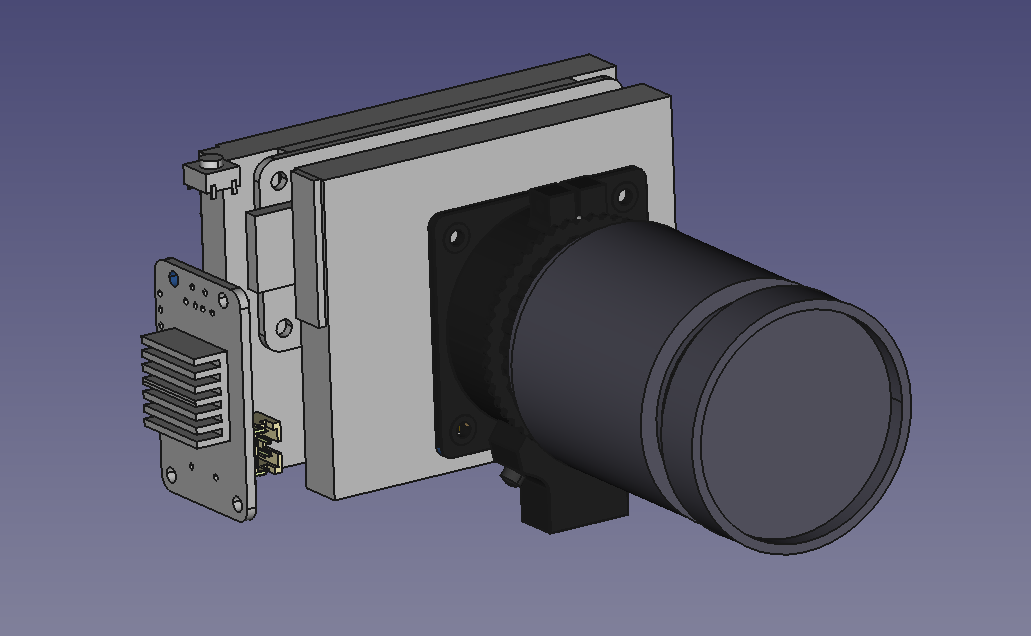
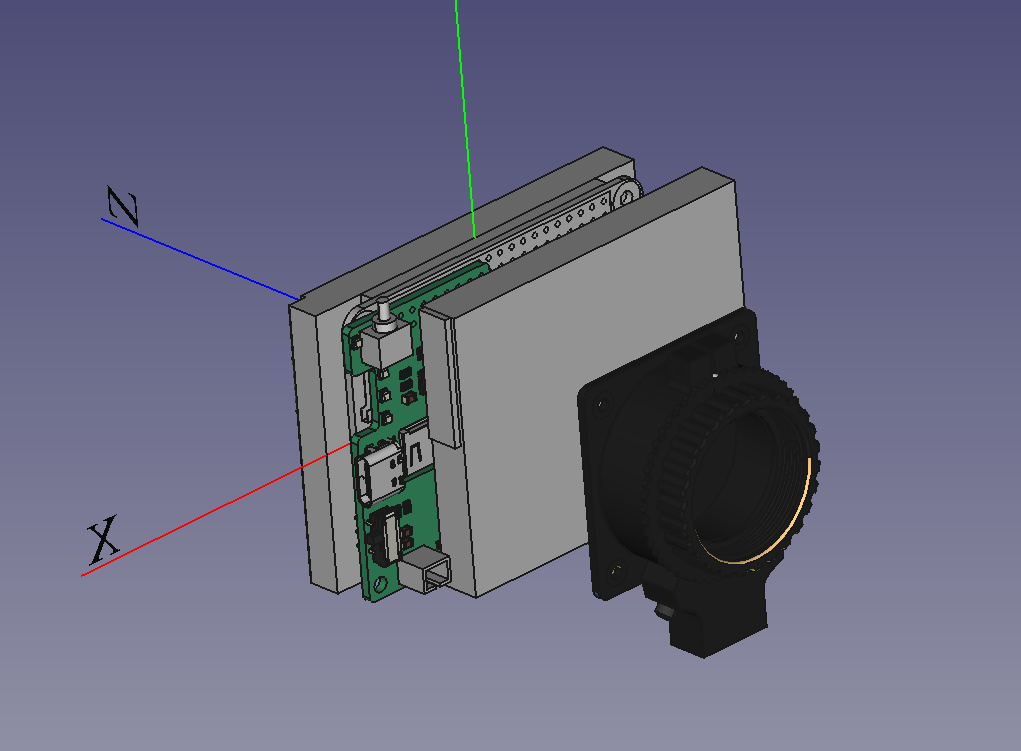
updated README

diff --git a/README.md b/README.md
@@ -1,13 +1,13 @@
 tinycam
 ---
 
-![tinycam_v1 CAD](media/tinycam_v1.png)
+![tinycam_v2 CAD](media/tinycam_v2.png)
 
-This is a simple point-and-shoot camera, mostly an excuse to play with the new [Raspberry Pi High Quality camera](https://www.raspberrypi.org/products/raspberry-pi-high-quality-camera/) and maybe a simple PCB for battery management.
+This is a simple point-and-shoot camera, mostly an excuse to play with the new [Raspberry Pi High Quality camera](https://www.raspberrypi.org/products/raspberry-pi-high-quality-camera/) and ~~maybe~~ **also** a simple PCB for battery management.
 The code is a very simple python script wrapping `raspistill`.
 CAD is in [FreeCAD](https://www.freecadweb.org/), and any PCBs designed will be [KiCAD](https://kicad-pcb.org/).
 
-Hardware requirements for v1 prototype:
+Hardware requirements:
 
 - [Raspberry Pi Zero W ($25)](https://www.amazon.com/CanaKit-Raspberry-Wireless-Official-Supply/dp/B071L2ZQZX/)
 - [Samsung Evo+ 32 GB microSD card ($9)](https://www.amazon.com/gp/product/B00WR4IJBE)
@@ -15,11 +15,11 @@ Hardware requirements for v1 prototype:
 - [Raspberry Pi High Quality camera ($50)](https://www.pishop.us/product/raspberry-pi-hq-camera/?src=raspberrypi)
 - [Telephoto lens for HQ camera ($63)](https://www.pishop.us/product/16mm-telephoto-lens-for-raspberry-pi-hq-camera/)
 - [Adafruit PowerBoost 1000 Charger ($20)](https://www.adafruit.com/product/2465)
+- [tinycam PCB (~$35 to build)](pcb/)
 
 
 #### next TODO:
 
-- custom PCB for battery management, trigger, maybe IMU
 - v2 of chassis to support button trigger and battery management
 - auto upload to gphotos a la [eshmu/gphotos-upload](https://github.com/eshmu/gphotos-upload)
 - support sleep / wake mode
